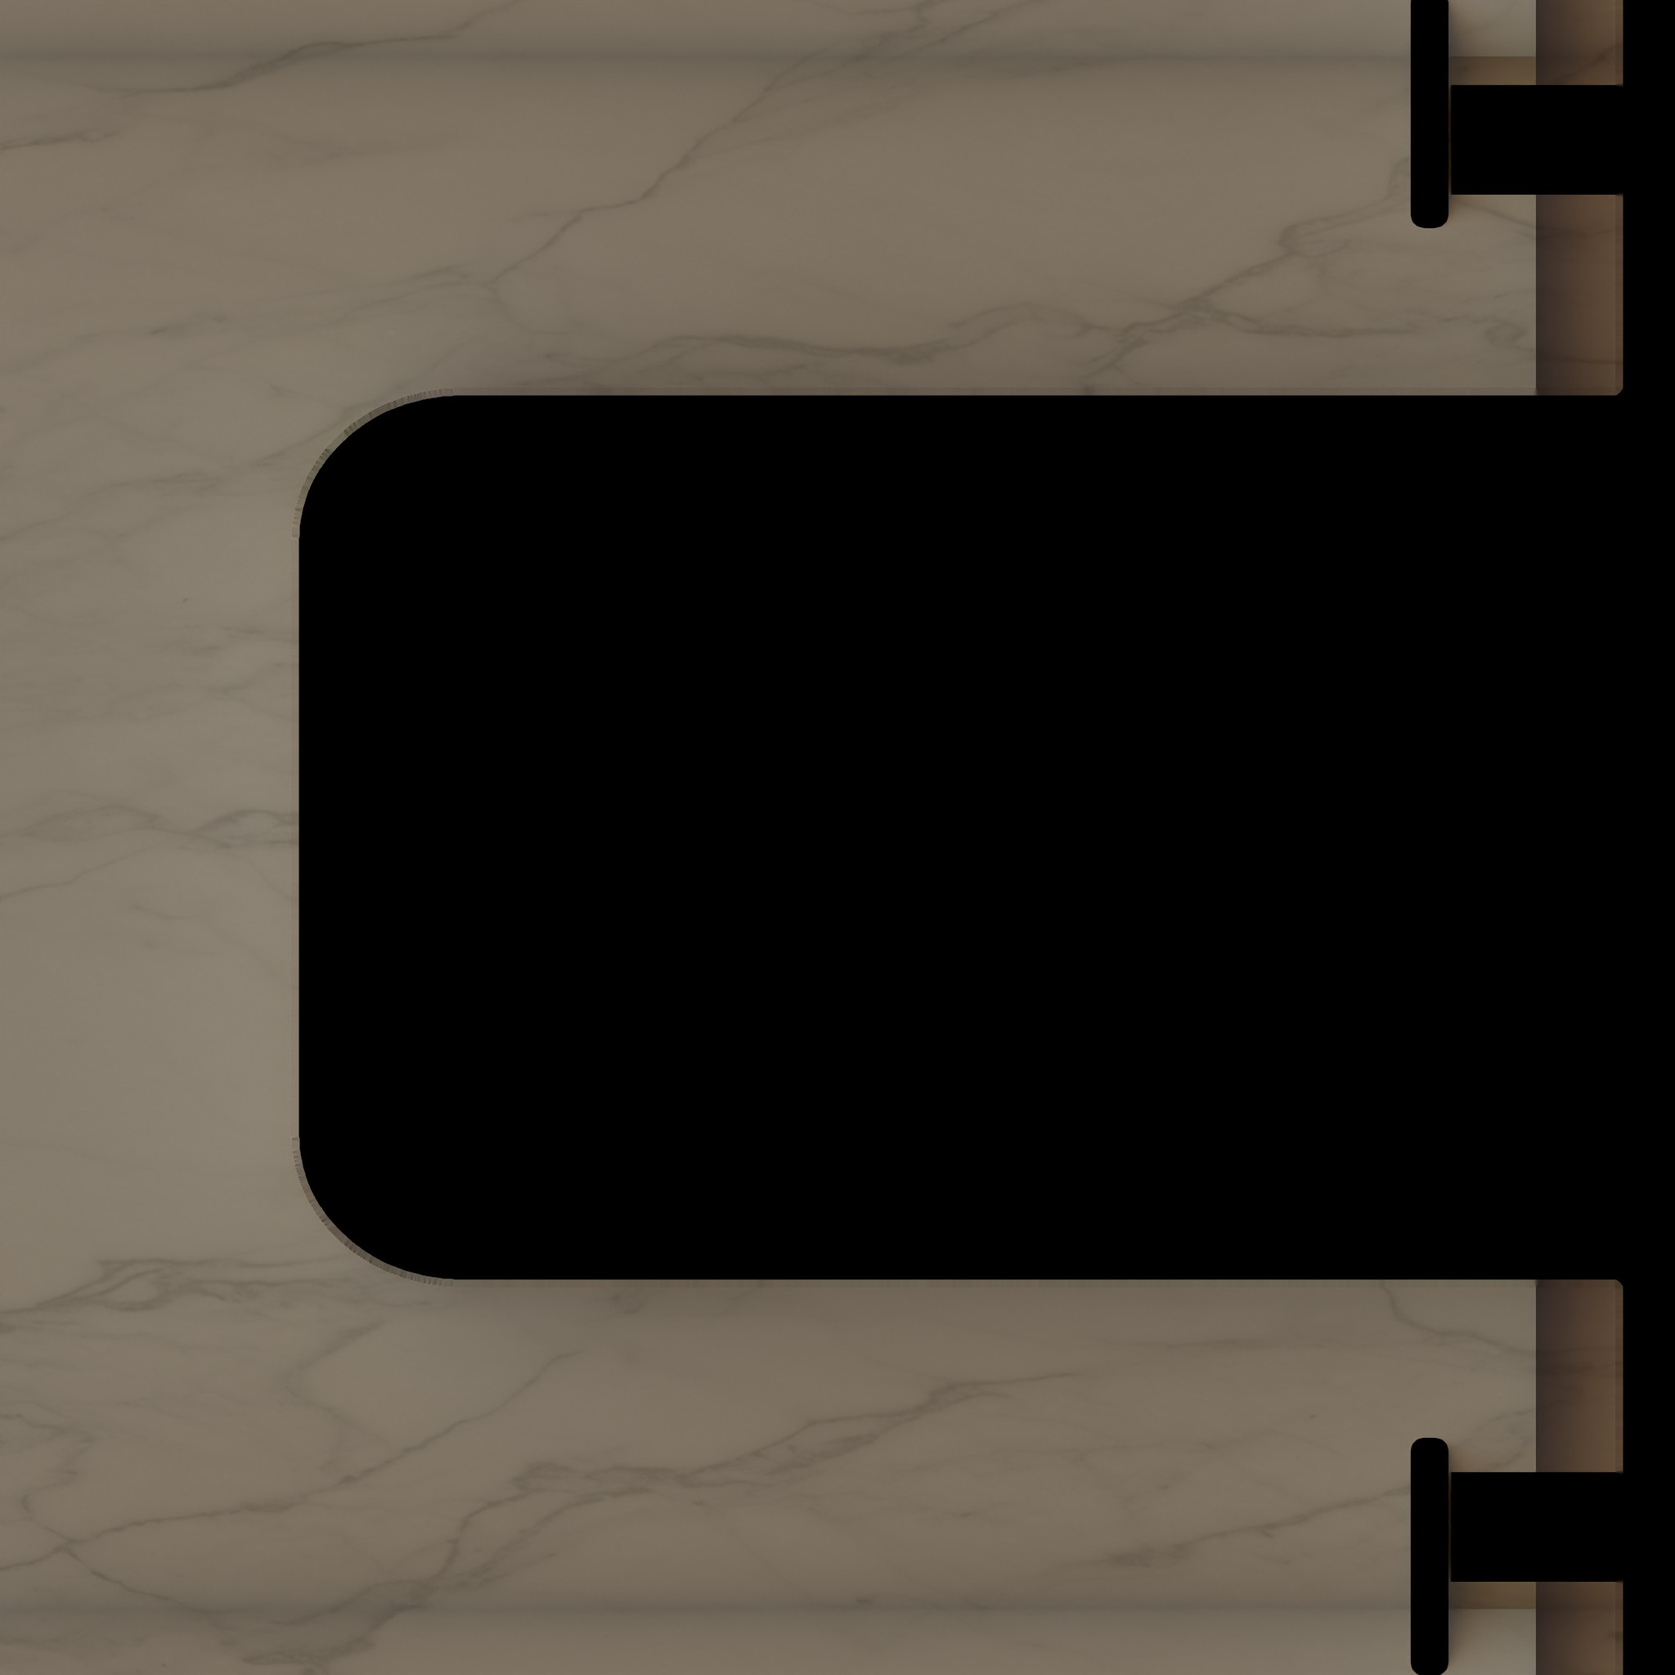
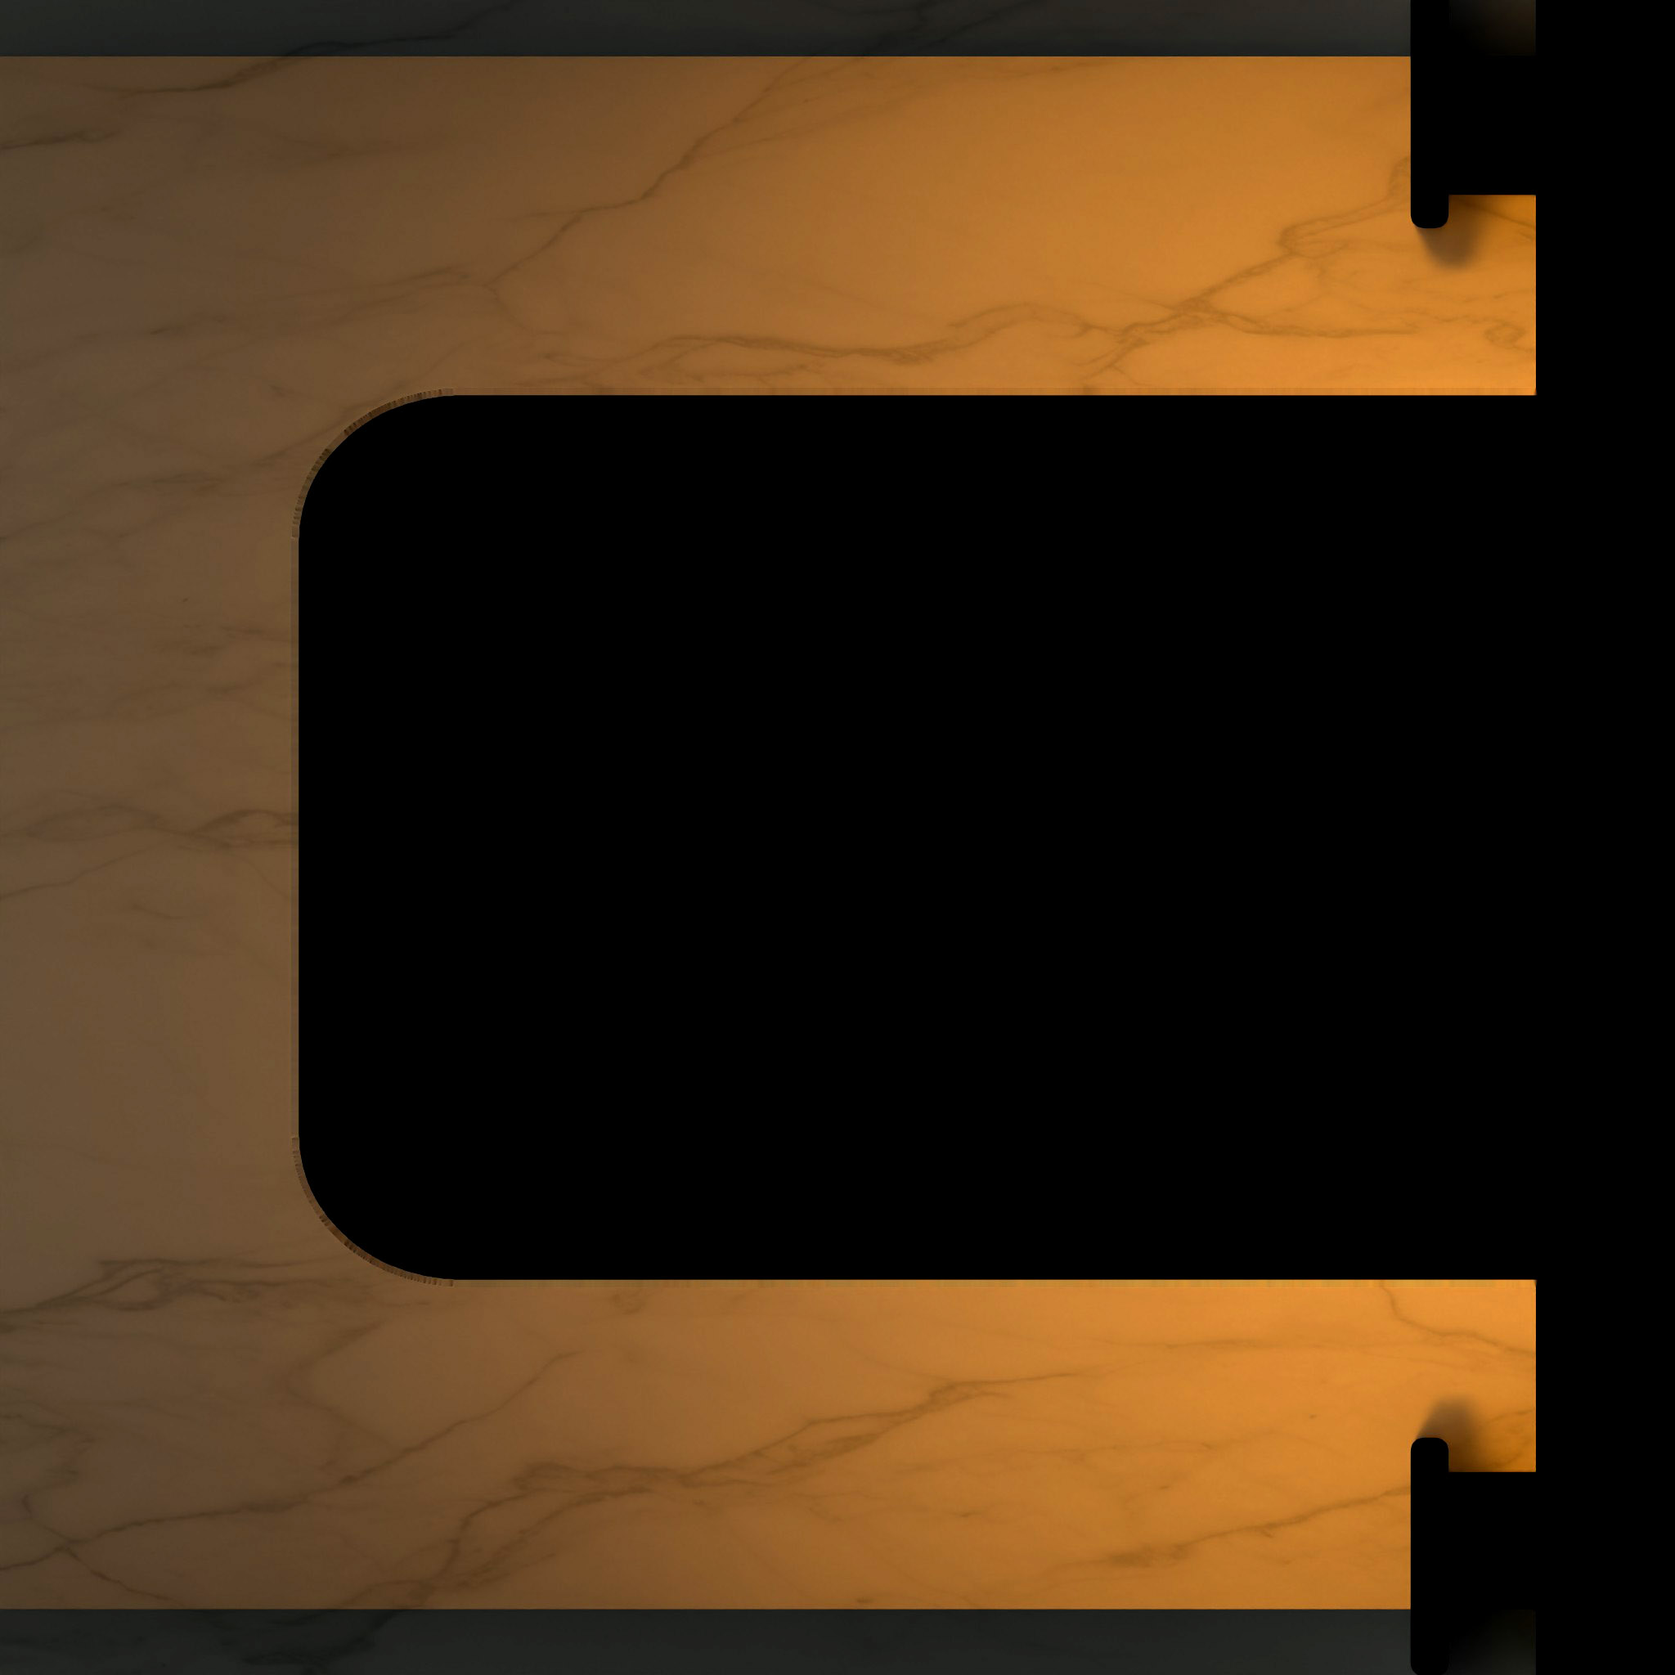
new ilumination

diff --git a/src/webgl/stages/scentuary_scene/StageCamera/StageCamera.js b/src/webgl/stages/scentuary_scene/StageCamera/StageCamera.js
@@ -22,16 +22,19 @@ class StageCamera{
         this.STATES.CURRENT ={
             camera_position: new THREE.Vector3(),
             camera_fov: 0,
+            camera_offset: new THREE.Vector2(0,0),
             target_position: new THREE.Vector3(),
         }
         this.STATES.INITIAL ={
             camera_position: new THREE.Vector3(),
             camera_fov: 0,
+            camera_offset: new THREE.Vector2(0,0),
             target_position: new THREE.Vector3(),
         }
         this.STATES.FINAL ={
             camera_position: new THREE.Vector3(),
             camera_fov: 0,
+            camera_offset: new THREE.Vector2(0,0),
             target_position: new THREE.Vector3(),
         }
         this.CAMERA_PROGRESS = 0
@@ -137,6 +140,8 @@ class StageCamera{
         const spot = this.SPOTS.get_spot(spotId)
         this.STATES.CURRENT.camera_position.copy(spot.camera_position)
         this.STATES.CURRENT.target_position.copy(spot.target_position)
+        this.STATES.CURRENT.camera_offset.copy(spot.camera_offset)
+        
         this.STATES.CURRENT.camera_fov = spot.camera_fov
         //--
         console.log("this.STATES: ", this.STATES);
@@ -147,10 +152,12 @@ class StageCamera{
         //--
         this.STATES.INITIAL.camera_position.copy(this.STATES.CURRENT.camera_position)
         this.STATES.INITIAL.target_position.copy(this.STATES.CURRENT.target_position)
+        this.STATES.INITIAL.camera_offset.copy(this.STATES.CURRENT.camera_offset)
         this.STATES.INITIAL.camera_fov = this.camera.fov
         //--
         this.STATES.FINAL.camera_position.copy(spot.camera_position)
         this.STATES.FINAL.target_position.copy(spot.target_position)
+        this.STATES.FINAL.camera_offset.copy(spot.camera_offset)
         this.STATES.FINAL.camera_fov = spot.camera_fov
         //--
         this.cameraAnim?.kill()
@@ -185,6 +192,7 @@ class StageCamera{
             this.STATES.CURRENT.camera_position.lerpVectors(this.STATES.INITIAL.camera_position, this.STATES.FINAL.camera_position, this.CAMERA_PROGRESS) 
             this.STATES.CURRENT.target_position.lerpVectors(this.STATES.INITIAL.target_position, this.STATES.FINAL.target_position, this.CAMERA_PROGRESS)
             this.STATES.CURRENT.camera_fov = THREE.MathUtils.lerp(this.STATES.INITIAL.camera_fov, this.STATES.FINAL.camera_fov, this.CAMERA_PROGRESS)
+            this.STATES.CURRENT.camera_offset.lerpVectors(this.STATES.INITIAL.camera_offset, this.STATES.FINAL.camera_offset, this.CAMERA_PROGRESS)
         }
         const PANNED_POSITION = this._update_pan(this.STATES.CURRENT.camera_position)
         this.holder.position.copy(PANNED_POSITION)
@@ -226,6 +234,9 @@ class StageCamera{
         const yscale = dimensions.height/this.app.size.REF.height
         // console.log("xscale: ", xscale, " yscale: ", yscale);
         this.lensFlare.cont3D.scale.set(xscale, yscale, 1)
+        //----------
+        this.lensFlare.cont3D.position.x = -this.STATES.CURRENT.camera_offset.x*dimensions.width
+        this.lensFlare.cont3D.position.y = this.STATES.CURRENT.camera_offset.y*dimensions.height
     }
     _update_lensFlare(){
         // const distance = 1;
@@ -384,6 +395,18 @@ class StageCamera{
         ////console.log("this.camera.rotation: ", this.camera.rotation);
         this.camera.lookAt(this.target.position)
         this.camera.aspect = (this.app.size.CURRENT.width)/this.app.size.CURRENT.height
+        //--
+        const offset_x = this.app.size.CURRENT.width*this.STATES.CURRENT.camera_offset.x
+        const offset_y = this.app.size.CURRENT.height*this.STATES.CURRENT.camera_offset.y
+        this.camera.setViewOffset(
+            this.app.size.CURRENT.width,
+            this.app.size.CURRENT.height,
+            offset_x,
+            offset_y,
+            this.app.size.CURRENT.width,
+            this.app.size.CURRENT.height,
+        )
+        //--
         this.camera.updateProjectionMatrix();
         if(this.camera_helper) this.camera_helper.update()
     }

diff --git a/src/webgl/stages/scentuary_scene/Scenario3D/Pools/Pools.js b/src/webgl/stages/scentuary_scene/Scenario3D/Pools/Pools.js
@@ -29,7 +29,7 @@ class Pools{
 
         //---
         //const seaGeometry = new THREE.PlaneGeometry(100, 400, 10, 100) // Replace size if needed
-       const seaGeometry = new THREE.PlaneGeometry(5, 1, 1, 1) // Replace size if needed
+       const seaGeometry = new THREE.PlaneGeometry(5, 6, 1, 1) // Replace size if needed
        
         const waterNormals = this.stage.loader.get_texture("waternormals");
         waterNormals.wrapS = waterNormals.wrapT = THREE.RepeatWrapping;
@@ -42,52 +42,52 @@ class Pools{
 
         this.pool1_mesh = new Water(seaGeometry, {
             // color: 0x001e0f,
-            // scale: 4,
+            scale: 0.5,
             // flowDirection: new THREE.Vector2(1, 1),
             // textureWidth: 1024,
             // textureHeight: 1024
             textureWidth: 128,
             textureHeight: 128,
-            flowDirection: new THREE.Vector2(0.1, 0.0),
+            flowDirection: new THREE.Vector2(0.2, 0.0),
             waterNormals: waterNormals,
             normalMap0: normalMap0,
             normalMap1: normalMap1,
             sunDirection: this.sunPosition,
             sunColor: 0xffffff, //this.sunColor,
-            color: 0xb5cad4,
-            distortionScale: 1.5,
+            color: 0xe4d3c3,
+            distortionScale: 3,
             fog: this.app.scene.fog !== undefined
         })
         this.pool1_mesh.rotation.x = -Math.PI / 2
         this.pool1_mesh.rotation.z = Math.PI
-        this.pool1_mesh.position.set(-0.7-4, -0.05, -2.5)
+        this.pool1_mesh.position.set(-0.7-4, -0.07, 0)
         // this.mesh.rotation.z = -Math.PI / 2
         this.parent3D.add(this.pool1_mesh)
         //--
-        this.pool2_mesh = new Water(seaGeometry, {
-            // color: 0x001e0f,
-            // scale: 4,
-            // flowDirection: new THREE.Vector2(1, 1),
-            // textureWidth: 1024,
-            // textureHeight: 1024
-            textureWidth: 128,
-            textureHeight: 128,
-            flowDirection: new THREE.Vector2(0.1, 0),
-            waterNormals: waterNormals,
-            normalMap0: normalMap0,
-            normalMap1: normalMap1,
-            sunDirection: this.sunPosition,
-            sunColor: 0xffffff, //this.sunColor,
-            // color: 0xffefd8, //0xffe3b9,
-            color: 0xb5cad4, //0xffe3b9,
-            distortionScale: 1.5,
-            fog: this.app.scene.fog !== undefined
-        })
-        this.pool2_mesh.rotation.x = -Math.PI / 2
-        this.pool2_mesh.rotation.z = Math.PI
-        this.pool2_mesh.position.set(-0.7-4, -0.05, 2.5)
-        // this.mesh.rotation.z = -Math.PI / 2
-        this.parent3D.add(this.pool2_mesh)
+        // this.pool2_mesh = new Water(seaGeometry, {
+        //     // color: 0x001e0f,
+        //     scale: 0.5,
+        //     // flowDirection: new THREE.Vector2(1, 1),
+        //     // textureWidth: 1024,
+        //     // textureHeight: 1024
+        //     textureWidth: 128,
+        //     textureHeight: 128,
+        //     flowDirection: new THREE.Vector2(-0.2, 0),
+        //     waterNormals: waterNormals,
+        //     normalMap0: normalMap0,
+        //     normalMap1: normalMap1,
+        //     sunDirection: this.sunPosition,
+        //     sunColor: 0xffffff, //this.sunColor,
+        //     // color: 0xffefd8, //0xffe3b9,
+        //     color: 0xe4d3c3, //0xffe3b9,
+        //     distortionScale: 3,
+        //     fog: this.app.scene.fog !== undefined
+        // })
+        // this.pool2_mesh.rotation.x = -Math.PI / 2
+        // this.pool2_mesh.rotation.z = Math.PI
+        // this.pool2_mesh.position.set(-0.7-4, -0.05, 4.5)
+        // // this.mesh.rotation.z = -Math.PI / 2
+        // this.parent3D.add(this.pool2_mesh)
 
 
     }

diff --git a/src/webgl/stages/scentuary_scene/Scenario3D/Aquitecture/ArquitectureItems.js b/src/webgl/stages/scentuary_scene/Scenario3D/Aquitecture/ArquitectureItems.js
@@ -128,7 +128,7 @@ class ArquitectureItems{
     _build_item(itemId){
         const mesh = this.stage.get_mesh_from_GLB_PROJECT(itemId)
         const texture = this.stage.loader.get_texture(itemId)
-        texture.flipY = false;
+        texture.flipY = false;      
         const texture_ao = this.stage.loader.get_texture(itemId+"_ao")
         texture_ao.flipY = false;
         const texture_bump = this.stage.loader.get_texture(itemId+"_bump")
@@ -138,16 +138,18 @@ class ArquitectureItems{
             aoMap: texture_ao,
             aoMapIntensity: 1.0,
             lightMap: texture_bump,
-            lightMapIntensity: 2,
-            // color: this.scenario.BESE_MARBEL_COLOR, // Ivory base color
+            lightMapIntensity: 1.5,            // color: this.scenario.BESE_MARBEL_COLOR, // Ivory base color
             roughness: 0.5,   // Moderate roughness for a soft shine
             metalness: 0.0,   // Non-metallic
             
             bumpMap: texture_bump,
             bumpScale: 1, // Adjust the bump scale as needed
-            // lightMap: this.texture_bump,
-            // lightMapIntensity: 0.5,
-            side: THREE.DoubleSide
+
+            // emissiveMap:texture,
+            // emissive: new THREE.Color(this.scenario.BESE_MARBEL_COLOR),
+            // emissiveIntensity: 0.3,
+
+            // side: THREE.DoubleSide
           });
         mesh.material = marbleMaterial
         mesh.receiveShadow = true;
@@ -159,23 +161,23 @@ class ArquitectureItems{
         texture.flipY = false;
         const texture_ao = this.stage.loader.get_texture(itemId+"_ao")
         texture_ao.flipY = false;
-        const texture_bump = this.stage.loader.get_texture(itemId+"_bump")
-        texture_bump.flipY = false;
+        // const texture_bump = this.stage.loader.get_texture(itemId+"_bump")
+        // texture_bump.flipY = false;
         // const marbleMaterial = new THREE.MeshStandardMaterial({
         const marbleMaterial = new THREE.MeshPhongMaterial({
             map: texture, // Use the loaded texture
-            // aoMap: texture_ao,
-            // aoMapIntensity: 1.0,
+            aoMap: texture_ao,
+            aoMapIntensity: 1.0,
             // lightMap: texture_bump,
             // lightMapIntensity: 2.5,
-            color: new THREE.Color(0xe9c73f), // Ivory base color
+            // color: new THREE.Color(0xe9c73f), // Ivory base color
             roughness: 0.2,   // Moderate roughness for a soft shine
             metalness: 0.9,   // Non-metallic
             
             // bumpMap: texture_bump,
             // bumpScale: 5, // Adjust the bump scale as needed
-            lightMap: this.texture_bump,
-            lightMapIntensity: 0.5,
+            // lightMap: this.texture_bump,
+            // lightMapIntensity: 0.5,
             emissive: new THREE.Color(0xe9c73f), // Ivory base color
             emissiveIntensity: 0.1,
             // side: THREE.DoubleSide

diff --git a/src/webgl/stages/scentuary_scene/Scenario3D/Lights/Lights.js b/src/webgl/stages/scentuary_scene/Scenario3D/Lights/Lights.js
@@ -15,7 +15,7 @@ class Lights{
         this.scenario = obj.scenario
         this.parent3D = obj.parent3D
         //-----------------------------
-        const intensity_mod = 0.2
+        const intensity_mod = 0.0
         this.PRESETS = {
             cenitalA: {
                 color: 0xFDC274,
@@ -31,20 +31,38 @@ class Lights{
             },
             fillA2: {
                 color: 0xFDC274,
-                intensity: 29*intensity_mod,
+                intensity: 29*0,
                 distance: 100,
                 decay: 2
             },
             cenitalB: {
                 color: 0xFDC274,
-                intensity: 90*intensity_mod,
+                intensity: 90*0,
                 distance: 100,
                 decay: 2
             },
             fillB1: {
                 color: 0xFDC274,
-                intensity: 80*intensity_mod,
+                intensity: 80*0,
                 distance: 100,
+                decay: 2
+            },
+            lateral1: {
+                color: 0xFDC274,
+                intensity: 80*0.1,
+                distance: 100,
+                decay: 2
+            },
+            lateral2: {
+                color: 0xFDC274,
+                intensity: 80*0.1,
+                distance: 100,
+                decay: 2
+            },
+            archlight: {
+                color: 0xeac955,
+                intensity: 100*0.1,
+                distance: 3,
                 decay: 2
             },
         }
@@ -60,8 +78,16 @@ class Lights{
         })
         //-----------------------------
         // AMBIENT:
-        const dev_ambientLight = new THREE.AmbientLight(0xe5a860, 2.0); // Soft white light
+        // const dev_ambientLight = new THREE.AmbientLight(0xe5a860, 2.0); // Soft white light
+        const dev_ambientLight = new THREE.AmbientLight(0xffffff, 2); // Soft white light
         this.parent3D.add(dev_ambientLight);
+        //-----------------------------
+        // EXTRA POINT LIGHT:
+        // const extra_pointLight = new THREE.PointLight(0xffaa55, 5, 100, 2) // color, intensity, distance, decay
+        // extra_pointLight.position.copy(this.stage.spot.get_spot("archlight"))
+        // this.parent3D.add(extra_pointLight)
+        //-----------------------------
+        // IMPORTED LIGHTS:
         //-----------------------------
         this.stage.GLB_PROJECT.children.map((child)=>{
             // console.log("child.name: ", child.name, child);

diff --git a/src/webgl/stages/scentuary_scene/StageCamera/CameraSpots.js b/src/webgl/stages/scentuary_scene/StageCamera/CameraSpots.js
@@ -29,6 +29,7 @@ class CameraSpots{
                         camera_rotation: child.rotation,
                         camera_fov: child.fov,
                         target_position: new THREE.Vector3(),
+                        camera_offset: new THREE.Vector2(0,0),
                     }
                     this.SPOTS.nuevoItem(spotId, spot)
                     //--
@@ -79,6 +80,28 @@ class CameraSpots{
                 }
             }
         })
+        //--------------------------
+        // ADDING EXTRA PARAMS:
+        const spot0 = this.SPOTS.getItem("spot0")
+        spot0.camera_offset.set(0, 0)
+        const spot1 = this.SPOTS.getItem("spot1")
+        spot1.camera_offset.set(0.2, 0)
+        const spot2 = this.SPOTS.getItem("spot2")
+        spot2.camera_offset.set(0.2, 0)
+        const spot3 = this.SPOTS.getItem("spot3")
+        spot3.camera_offset.set(0.2, 0)
+        const spot4 = this.SPOTS.getItem("spot4")
+        spot4.camera_offset.set(0.2, 0)
+        const spot5 = this.SPOTS.getItem("spot5")
+        spot5.camera_offset.set(0.2, 0) 
+        const spot6 = this.SPOTS.getItem("spot6")
+        spot6.camera_offset.set(0.2, 0) 
+        const spot7 = this.SPOTS.getItem("spot7")
+        spot7.camera_offset.set(0.2, 0) 
+        const spot8 = this.SPOTS.getItem("spot8")
+        spot8.camera_offset.set(0.2, 0)
+        //--------------------------
+
         console.log("this.SPOTS: ", this.SPOTS);
     }
     get_spot(spotId){

diff --git a/src/webgl/stages/scentuary_scene/Scenario3D/Lights/SunLight.js b/src/webgl/stages/scentuary_scene/Scenario3D/Lights/SunLight.js
@@ -34,13 +34,13 @@ class SunLight{
         this.parent3D.add(this.sun_helper)
         //------------
         const sunlight_intesity = 4
-        this.sunLight = new THREE.DirectionalLight(this.COLOR, 1)
+        this.sunLight = new THREE.DirectionalLight(this.COLOR, 0.8)
         this.sunLight.position.copy(this.POSITION)
         this.sunLight.target.position.copy(this.ORIGIN)
         this.sunLight.target.updateMatrixWorld()    
         this.sunLight.castShadow = true
-        this.sunLight.shadow.mapSize.width = 1024
-        this.sunLight.shadow.mapSize.height = 1024
+        this.sunLight.shadow.mapSize.width = 256
+        this.sunLight.shadow.mapSize.height = 256
         this.sunLight.shadow.camera.near = 0.5
         this.sunLight.shadow.camera.far = 50
         this.sunLight.shadow.camera.fov = 50

diff --git a/src/webgl/stages/scentuary_scene/ScentuaryStage.js b/src/webgl/stages/scentuary_scene/ScentuaryStage.js
@@ -86,7 +86,7 @@ class ScentuaryStage extends StageSuper{
 
         this.loader.add_texture("archinside", this.app.loader_pathPrefix+"img/bakings/2k/archinside.jpg", true)
         this.loader.add_texture("archinside_ao", this.app.loader_pathPrefix+"img/bakings/2k/archinside_ao.jpg", true)
-        this.loader.add_texture("archinside_bump", this.app.loader_pathPrefix+"img/bakings/2k/archinside_bump.jpg", true)
+        // this.loader.add_texture("archinside_bump", this.app.loader_pathPrefix+"img/bakings/2k/archinside_bump.jpg", true)
 
         // this.loader.add_texture("archbevel", this.app.loader_pathPrefix+"img/bakings/2k/archbevel.jpg", true)
         // this.loader.add_texture("archbevel_ao", this.app.loader_pathPrefix+"img/bakings/2k/archbevel_ao.jpg", true)

diff --git a/src/webgl/stages/scentuary_scene/StageCamera/LensFlare/LensFlare.js b/src/webgl/stages/scentuary_scene/StageCamera/LensFlare/LensFlare.js
@@ -48,7 +48,7 @@ class LensFlare{
             vertexShader:  vertex,
             fragmentShader:  fragment,
             visible:true,
-            // wireframe: trues
+            // wireframe: true
         })
         this.mesh = new THREE.Mesh(this.geometry, this.material)
         this.cont3D.add(this.mesh)
